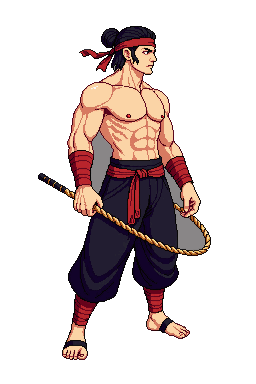
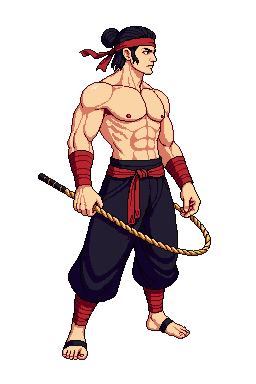
[修去背] 乩童手臂內側灰影 + 新增 pixellab_debg 工具
乩童手臂內側 / 繩圈內有「封閉灰色背景口袋」(1859px @ rgb138,132,132)
——角落 flood-fill 到不了被角色包住的封閉區。已 color-key 清除。

新增 scripts/tools/pixellab_debg.py：兩段式去背（角落 flood-fill 去外部
背景 + 補去殘留同色封閉口袋），給 P2 之後的 PixelLab 素材重用。

Changed region(s): [[0.625, 0.4375, 0.8125, 0.6562], [0.3438, 0.3438, 0.4375, 0.5]]

diff --git a/scripts/tools/pixellab_debg.py b/scripts/tools/pixellab_debg.py
@@ -1,0 +1,70 @@
+#!/usr/bin/env python3
+"""PixelLab 角色去背工具。
+
+PixelLab pixflux 輸出帶「純色背景」（非真透明）。單純從角落 flood-fill 只能
+去掉外部背景，會漏掉被角色包住的「封閉背景口袋」（手臂內側、繩圈內等）。
+此工具兩段處理：
+  1. 角落 flood-fill — 去外部背景
+  2. 補去殘留同色封閉口袋 — flood 後仍 opaque 且接近 bg 色的像素即封閉區；
+     若 bg 為中性灰，額外要求像素也中性灰，避免吃到角色彩色像素。
+
+用法： python3 scripts/tools/pixellab_debg.py <image.png> [image2.png ...]
+就地覆寫（已在版控內，鐵律 3 友善）。
+"""
+import sys
+from collections import deque
+from PIL import Image
+
+TOL: int = 52          # 與 bg 色的每通道容差
+GREY_SPREAD: int = 40  # 判定「中性灰」的 RGB 最大-最小差上限
+
+
+def _near(a: tuple, b: tuple) -> bool:
+	return abs(a[0] - b[0]) < TOL and abs(a[1] - b[1]) < TOL and abs(a[2] - b[2]) < TOL
+
+
+def debg(path: str) -> tuple:
+	im = Image.open(path).convert("RGBA")
+	w, h = im.size
+	px = im.load()
+	bg = px[1, 1]
+
+	# 1) 角落 flood-fill — 去外部背景
+	seen: set = set()
+	q: deque = deque([(0, 0), (w - 1, 0), (0, h - 1), (w - 1, h - 1)])
+	while q:
+		x, y = q.popleft()
+		if (x, y) in seen or x < 0 or y < 0 or x >= w or y >= h:
+			continue
+		seen.add((x, y))
+		p = px[x, y]
+		if p[3] == 0:
+			continue
+		if _near(p, bg):
+			px[x, y] = (0, 0, 0, 0)
+			q.extend([(x + 1, y), (x - 1, y), (x, y + 1), (x, y - 1)])
+
+	# 2) 補去封閉口袋 — flood 後仍接近 bg 色的 opaque 像素
+	bg_is_grey = (max(bg[:3]) - min(bg[:3])) < GREY_SPREAD
+	enclosed = 0
+	for y in range(h):
+		for x in range(w):
+			r, g, b, a = px[x, y]
+			if a == 0:
+				continue
+			if _near((r, g, b), bg):
+				if (not bg_is_grey) or (max(r, g, b) - min(r, g, b) < GREY_SPREAD):
+					px[x, y] = (0, 0, 0, 0)
+					enclosed += 1
+
+	im.save(path, "PNG")
+	return im.size, enclosed
+
+
+if __name__ == "__main__":
+	if len(sys.argv) < 2:
+		print(__doc__)
+		sys.exit(1)
+	for p in sys.argv[1:]:
+		size, rm = debg(p)
+		print(f"{p}: {size}  enclosed-removed={rm}")
